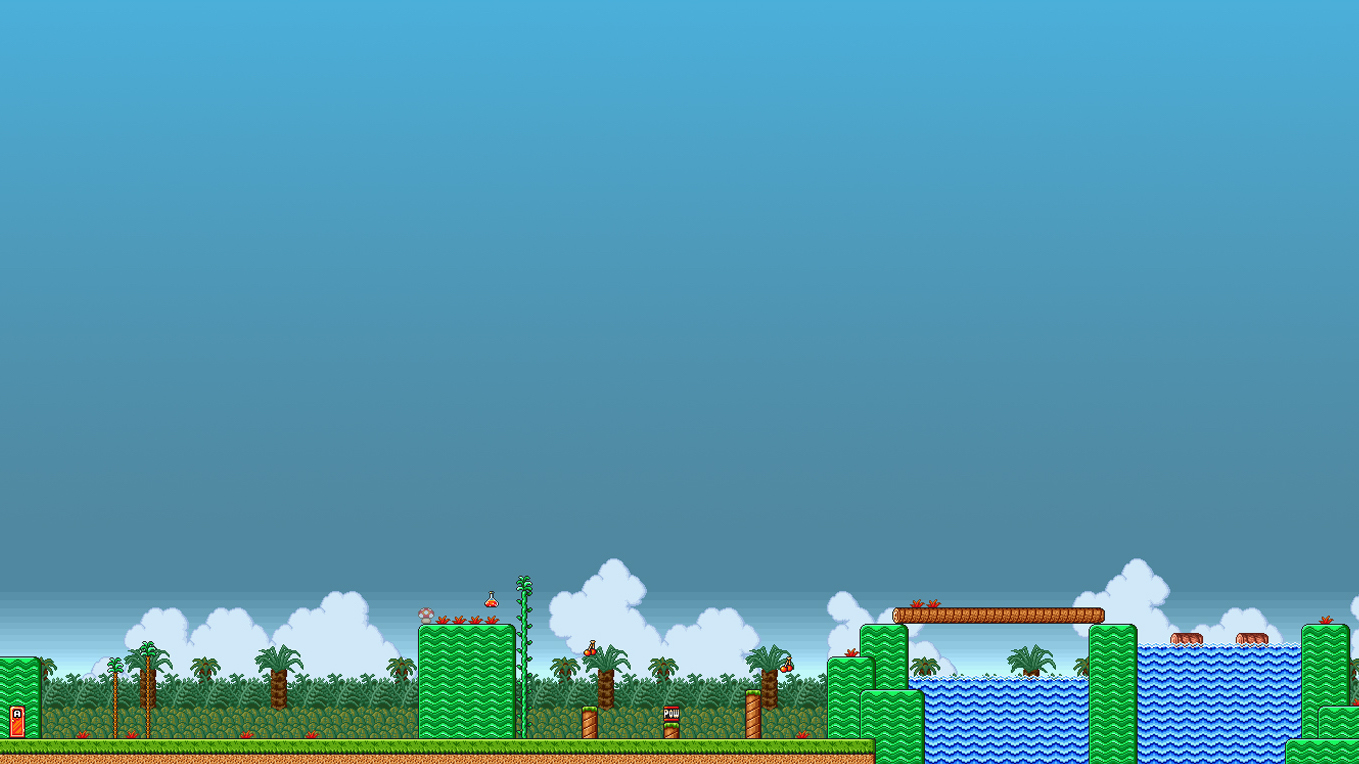
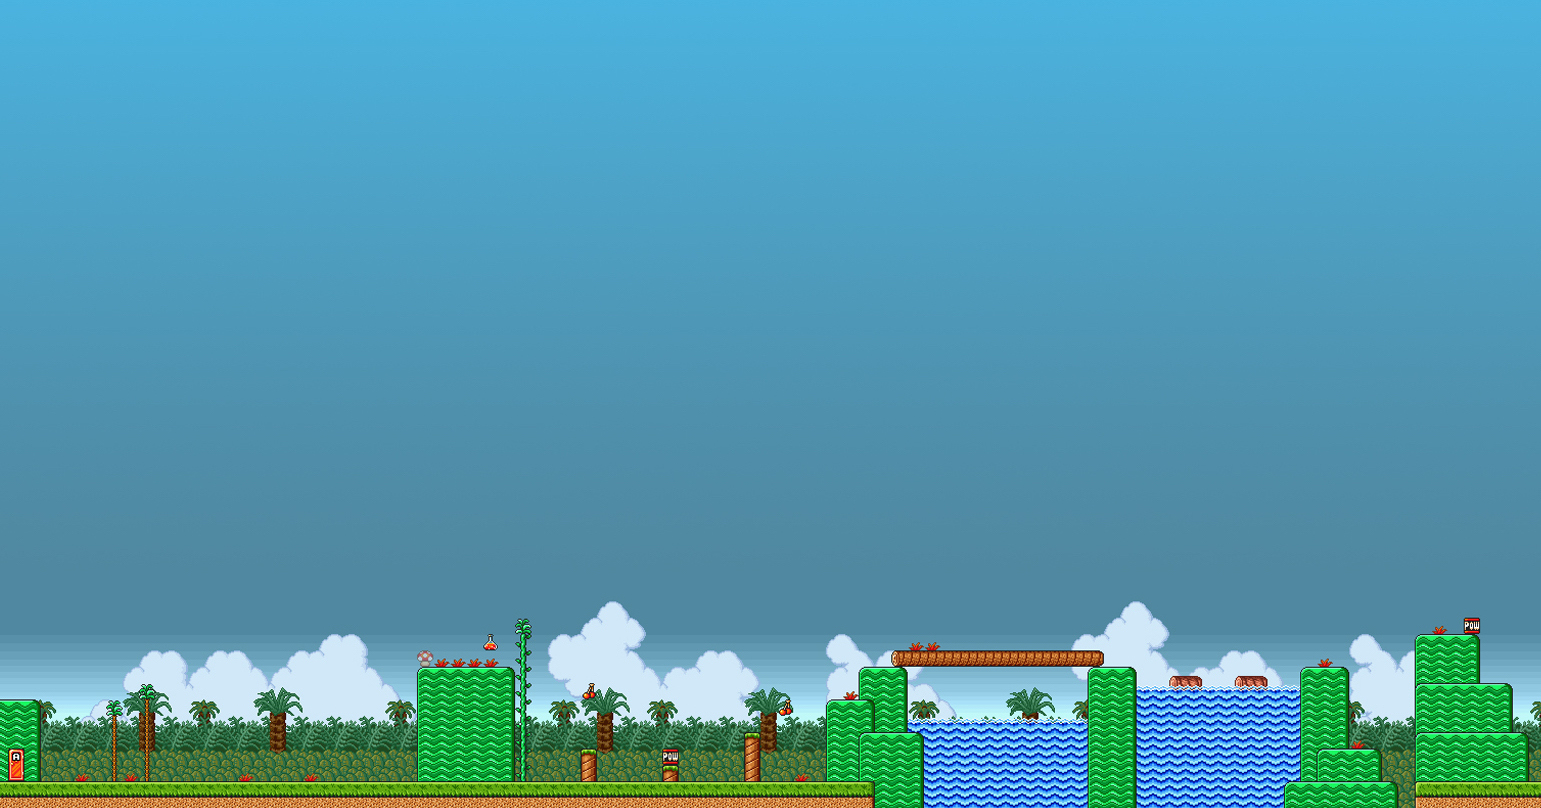
main body vertical height fix

Changed region(s): [[0.0, 0.7225, 1.0, 1.0]]

diff --git a/app/assets/javascripts/views/console/console_show.js b/app/assets/javascripts/views/console/console_show.js
@@ -13,7 +13,7 @@ AGRO.Views.consoleShow = Backbone.CompositeView.extend({
   },
 
   render: function() {
-    $(".main-body").css("background", "rgba(255, 255, 255, 0.2)");
+    // $(".main-body").css("background", "rgba(255, 255, 255, 0.2)");
     var content = this.template({ consoul: this.model });
     this.$el.html(content);
     this.attachSubviews();

diff --git a/app/assets/javascripts/routers/router.js b/app/assets/javascripts/routers/router.js
@@ -127,6 +127,7 @@ AGRO.Routers.Router = Backbone.Router.extend({
   _swapView: function(view) {
     $(document.body).removeClass().addClass("mario");
     $('body').scrollTop(0);
+    // $(".main-body").css("height", "inherit");
     if (this._currentView) { this._currentView.remove(); }
     this._currentView = view;
     this.$rootEl.html(view.$el);

diff --git a/app/assets/javascripts/views/game/game_index.js b/app/assets/javascripts/views/game/game_index.js
@@ -20,7 +20,7 @@ AGRO.Views.gameIndex = Backbone.CompositeView.extend({
   },
 
   render: function () {
-    $(".main-body").css("background", "rgba(255, 255, 255, 0.2)");
+    // $(".main-body").css("background", "rgba(255, 255, 255, 0.2)");
     this.$el.html(this.template());
     this.attachSubviews();
     return this;

diff --git a/app/assets/stylesheets/application.css.scss b/app/assets/stylesheets/application.css.scss
@@ -25,6 +25,11 @@
   position: absolute;
 }
 
+.main-body {
+  background: rgba(255, 255, 255, 0.2);
+  min-height: 100vh;
+}
+
 //spinner
 #pong-loader {
   position: absolute;
@@ -74,6 +79,7 @@ input.login-field {
 // background stuff
 body {
   padding-top: 50px;
+  background-attachment: fixed;
 }
 
 .mario {

diff --git a/app/assets/javascripts/views/game/game_home.js b/app/assets/javascripts/views/game/game_home.js
@@ -15,8 +15,6 @@ AGRO.Views.gameHome = Backbone.CompositeView.extend({
   },
 
   render: function() {
-    $(".main-body").css("background", "rgba(255, 255, 255, 0.2)")
-                   .css("height", "100vh");
     var content = this.template();
     this.$el.html(content);
     this.attachSubviews();
